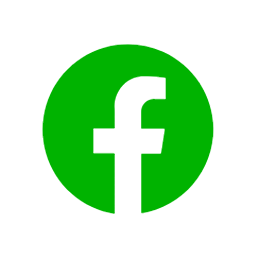
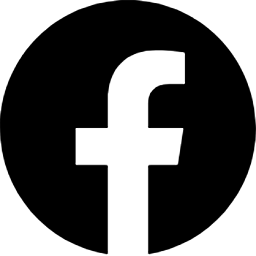
se agregan redes sociales en footer

diff --git a/index.html b/index.html
@@ -8,11 +8,11 @@
     <title>Document</title>
 </head>
 
-<body class="bg-neutral-800">
-    <div class="grid grid-cols-1 xl:grid-cols-4 gap-none px-none py-none border-2">
+<body class="bg-neutral-900">
+    <div class="grid grid-cols-1 xl:grid-cols-4 gap-none px-none py-none">
 
         <!-- logo -->
-        <div class="w-auto h-14 bg-black col-span-4 flex item-center justify-center pt-2">
+        <div class="w-auto h-14 bg-black col-span-4 flex item-center justify-center pt-2 m-none">
             <a href="#"><img src="IMAGEN/logosjmp.jpeg" alt="logo" class="w-auto h-10"></a>
         </div>
 
@@ -24,7 +24,7 @@
             <a href="#" class="text-neutral-400 hover:text-white">Carreras</a>
             <a href="#" class="text-neutral-400 hover:text-white">Store proximamente</a>
         </div>
-        
+
         <!-- wallpaper -->
         <div class="w-auto h-90 col-span-4 flex mt-3 mb-2 justify-center filter brightness-90">
             <img src="IMAGEN/WZWALL.png" alt="fondo" class="w-full h-full object-cover">
@@ -33,25 +33,31 @@
         <div class="w-auto h-auto col-span-4 flex justify-center text-neutral-400 mb-2 text-sm">
             <p>Loadout & Metas</p>
         </div>
-
-        <!-- inicio de cards -->
-        <div class="w-full h-full flex justify-between item-center col-span-4 px-6 flex-col md-flex-row"></div>
     </div>
 
     <!-- tratando de hacer cards -->
-<div class="flex justify-center">
-    <div class="grid grid-cols-1 xl:grid-cols-4 gap-9 px-4 py-4 border border-2">
-        <div class="w-32 h-24 bg-gray-300 rounded-xl text-sm">cards Loadout varios intentos fallidos</div>
-        <div class="w-32 h-24 bg-gray-300 rounded-xl text-sm">cards Loadout varios intentos fallidos</div>
-        <div class="w-32 h-24 bg-gray-300 rounded-xl text-sm">cards Loadout varios intentos fallidos</div>
-        <div class="w-32 h-24 bg-gray-300 rounded-xl text-sm">cards Loadout varios intentos fallidos</div>
+    <div class="flex justify-center">
+        <div class="grid grid-cols-1 xl:grid-cols-4 gap-9 px-4 py-4 border border-2">
+            <div class="w-32 h-24 bg-gray-300 rounded-xl text-sm">cards Loadout varios intentos fallidos</div>
+            <div class="w-32 h-24 bg-gray-300 rounded-xl text-sm">cards Loadout varios intentos fallidos</div>
+            <div class="w-32 h-24 bg-gray-300 rounded-xl text-sm">cards Loadout varios intentos fallidos</div>
+            <div class="w-32 h-24 bg-gray-300 rounded-xl text-sm">cards Loadout varios intentos fallidos</div>
+        </div>
     </div>
-</div>
 
 </body>
 
-<footer>
-    <div class="w-full bg-black p-2 text-center text-neutral-200 text-sm pt-6">
+<!-- PIE DE PAGINA -->
+<footer class="w-full bg-black p-none text-center text-neutral-200 text-sm border-t-2 border-lime-500 mt-3">
+    <div class="container mx-auto flex justify-center bg-neutral-800 space-x-10 py-2">
+        <a href="https://www.twitch.tv/smedinaxx"><img src="REDES/TWITCH.png" alt="logo" class="w-auto h-5"></a>
+        <a href="https://www.facebook.com/medinaparra"><img src="REDES/FACEBOOK.png" alt="logo" class="w-auto h-5 fill-current text-green-500"></a>
+        <a href="https://github.com/smedinaxx"><img src="REDES/GITHUB.png" alt="logo" class="w-auto h-5"></a>
+        <a href="https://www.tiktok.com/@saulmp02"><img src="REDES/TIKTOK.png" alt="logo" class="w-auto h-5"></a>
+
+    </div>
+
+    <div class="w-full bg-black text-center text-neutral-200 text-sm py-2">
         © 2024 All rights reserved:
         <a href="#" class="font-bold text-lime-600">smedinaxx</a>
     </div>
